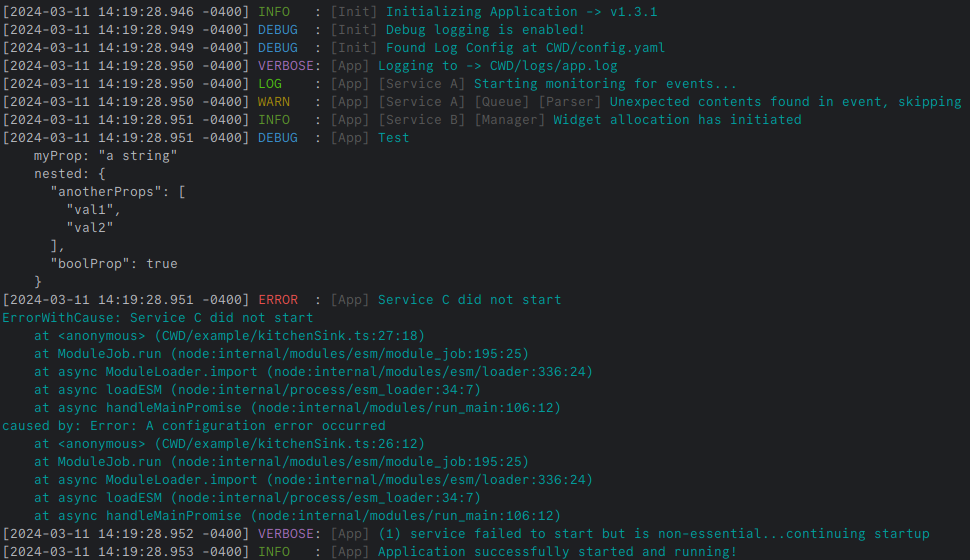
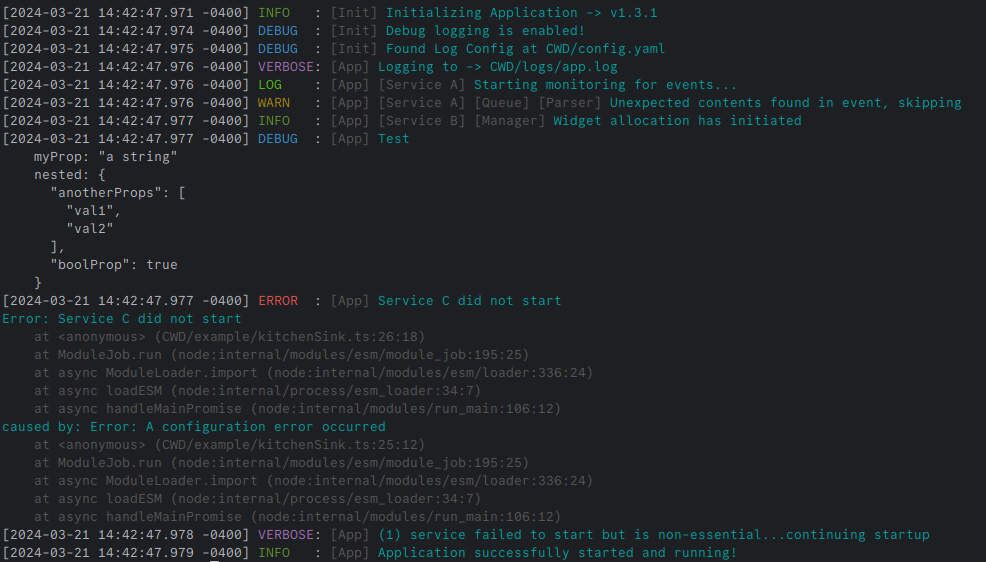
feat: Colorize stack traces different from error messages

diff --git a/tests/index.test.ts b/tests/index.test.ts
@@ -28,7 +28,7 @@ import dateFormatDef from "dateformat";
 const dateFormat = dateFormatDef as unknown as typeof dateFormatDef.default;
 
 
-const testConsoleLogger = (config?: object): [Logger, Transform, Transform] => {
+const testConsoleLogger = (config?: object, colorize = false): [Logger, Transform, Transform] => {
     const opts = parseLogOptions(config, process.cwd());
     const testStream = new PassThrough();
     const rawStream = new PassThrough();
@@ -37,7 +37,7 @@ const testConsoleLogger = (config?: object): [Logger, Transform, Transform] => {
             opts.console,
             {
                 destination: testStream,
-                colorize: false,
+                colorize,
                 ...opts
             }
         ),
@@ -584,6 +584,22 @@ describe('Child Logger', function() {
             expect(formatted).includes(' [Parent] ');
             expect(formatted).includes(' [Runtime] ');
         });
+    });
+});
+
+describe('Pretty Features', function () {
+    const [logger, testStream, rawStream] = testConsoleLogger(undefined, true);
+    it('colors error stack traces', async function () {
+        const formattedBuff = pEvent(testStream, 'data');
+
+        const rootError = new Error('The root error message');
+        const topError = new Error('The top error message', {cause: rootError});
+
+        logger.error(topError);
+        await sleep(10);
+        const formatted = (await formattedBuff).toString();
+        expect(formatted).to.not.be.undefined;
+        expect(formatted.match(/^\s+at\s.+$/gm)).to.be.null;
     });
 });
 

diff --git a/src/pretty.ts b/src/pretty.ts
@@ -41,7 +41,8 @@ export const prettyOptsFactory = (opts: PrettyOptionsExtra = {}): PrettyOptions 
             const labels: string[] = log.labels as string[] ?? [];
             const labelContent = labels.length === 0 ? '' : `${labels.map((x: string) => colors.blackBright(`[${x}]`)).join(' ')} `;
             const msg = redactFunc((log[messageKey] as string));
-            const stackTrace = log.err !== undefined ? redactFunc(`\n${(log.err as any).stack}`) : '';
+            let stackTrace = log.err !== undefined ? redactFunc(`\n${(log.err as any).stack}`) : '';
+            stackTrace = stackTrace.replaceAll(/^\s+at\s.+$/gm, (match) => `${colors.blackBright(match)}`) //$&
             return `${labelContent}${msg}${stackTrace}`;
         },
         hideObject: false,
